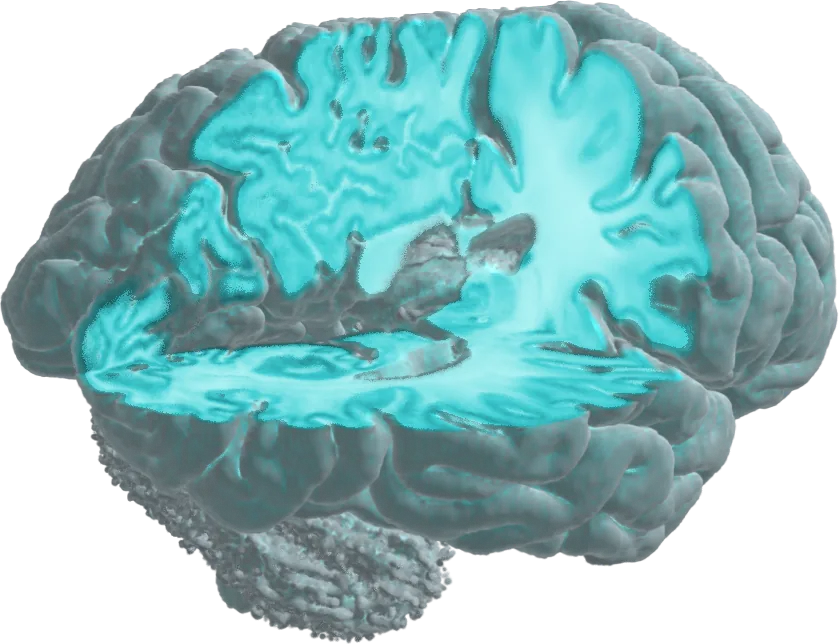
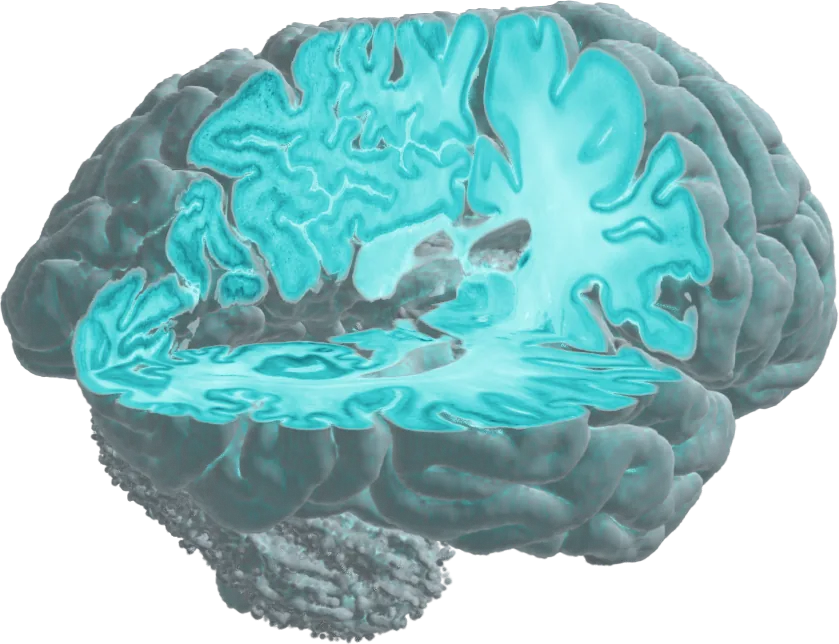
Hero BigBrain shows the same 100 um sections on its cut faces
The hero scene turns hd on, so the octant cut at the top of the page draws the real planes like the
cytoarchitecture chapter. The planes now load as soon as BigBrain is in, alongside the fetal volumes, and fade
in over 0.8 s on arrival so the first view does not jump. The still poster shown before WebGL starts is
re-rendered with them at the same framing.

diff --git a/assets/js/brainvol.js b/assets/js/brainvol.js
@@ -302,7 +302,10 @@ void main() {
   }
   function loadFace() { loadSection(face.src, 2, (tex, img) => { face.tex = tex; face.rows = img.height; }); }
   function loadCuts() {
-    ['x', 'y', 'z'].forEach((k, i) => loadSection(cuts[k], 3 + i, (tex, img) => { cuts.rows[k] = img.height; cuts.ready++; }));
+    ['x', 'y', 'z'].forEach((k, i) => loadSection(cuts[k], 3 + i, (tex, img) => {
+      cuts.rows[k] = img.height;
+      if (++cuts.ready === 3) cuts.t0 = performance.now();
+    }));
   }
 
   async function load() {
@@ -323,10 +326,10 @@ void main() {
         vols[id].tex = texture(vols[id].meta.dims, await gunzip(BASE + vols[id].meta.file));
         if (id === order[0]) root.classList.add('brainvol-ready');
         if (face && id === face.vol) loadFace();
+        if (cuts && id === cuts.vol) loadCuts();
         dirty = true;
       } catch (e) { console.warn('brainvol: could not load', id, e); }
     }
-    if (cuts && vols[cuts.vol]) loadCuts();     // last: they are only needed far down the page
   }
 
   // ---------------- drawing ----------------
@@ -368,10 +371,13 @@ void main() {
       const off = Math.abs(lerp(-half[0] * 1.05, S.clipx * half[0], S.clip) - face.clipx * half[0]);
       faceOn = 1 - ease(Math.min(1, off / (3 * MM)));
     }
-    // weight of the octant cut sections: full once the cut planes meet in the middle, gone 3 mm before
+    // weight of the octant cut sections: full once the cut planes meet in the middle, gone 3 mm before;
+    // faded in over a moment once they arrive, since the first view may already be showing the cut
     let cutOn = 0;
     if (cuts && cuts.ready === 3 && a.vol === cuts.vol && b.vol === cuts.vol && S.cut > 0.001 && S.hd > 0.001) {
-      cutOn = S.hd * (1 - ease(Math.min(1, Math.max(...half) * (1 - S.cut) / (3 * MM))));
+      const arrive = Math.min(1, Math.max(0, (now - cuts.t0) / 800));
+      if (arrive < 1) dirty = true;
+      cutOn = S.hd * ease(arrive) * (1 - ease(Math.min(1, Math.max(...half) * (1 - S.cut) / (3 * MM))));
     }
     if ((faceOn > 0.5 || cutOn > 0.5) !== sharp) { sharp = !sharp; resize(); }
 

diff --git a/index.html b/index.html
@@ -32,7 +32,7 @@
           data-cutfaces='{"vol":"bigbrain","x":"assets/img/cyto/bb_cut_x.webp","y":"assets/img/cyto/bb_cut_y.webp","z":"assets/img/cyto/bb_cut_z.webp"}'></canvas>
 
   <main id="top">
-    <section class="hero wrap" data-scene='{"vol":"bigbrain","az":-38,"el":16,"dist":3.7,"sx":0.47,"sy":-0.02,"cut":1,"clip":0,"tx":0,"ty":0,"tz":0,"fade":1}'>
+    <section class="hero wrap" data-scene='{"vol":"bigbrain","az":-38,"el":16,"dist":3.7,"sx":0.47,"sy":-0.02,"cut":1,"clip":0,"tx":0,"ty":0,"tz":0,"fade":1,"hd":1}'>
       <div class="hero-text">
         <p class="eyebrow">Computational neuroscience · Brain imaging · AI</p>
         <h1>Jignesh Mistry</h1>

diff --git a/README.md b/README.md
@@ -14,7 +14,7 @@ Edit `index.html` (content) and `assets/style.css` (styling). Put your CV at `as
   The canvas's `data-face` names a real section image that is drawn on the clip plane once the plane reaches it
   (the 24-week ganglionic-eminence cut; made by `tools/media_ge_face.py`). `data-cutfaces` does the same for
   BigBrain's octant cut: three 100 µm planes through the middle of the box, shown where a scene sets `hd`
-  (the cytoarchitecture chapter; made by `tools/media_bigbrain_faces.py`).
+  (the hero and the cytoarchitecture chapter; made by `tools/media_bigbrain_faces.py`).
 - `assets/js/story.js` drives the scroll zooms (`.zoomer`, nested image levels described by a JSON file), the frame
   scrubber (`.scrubber`) and the gestational-age ruler.
 
